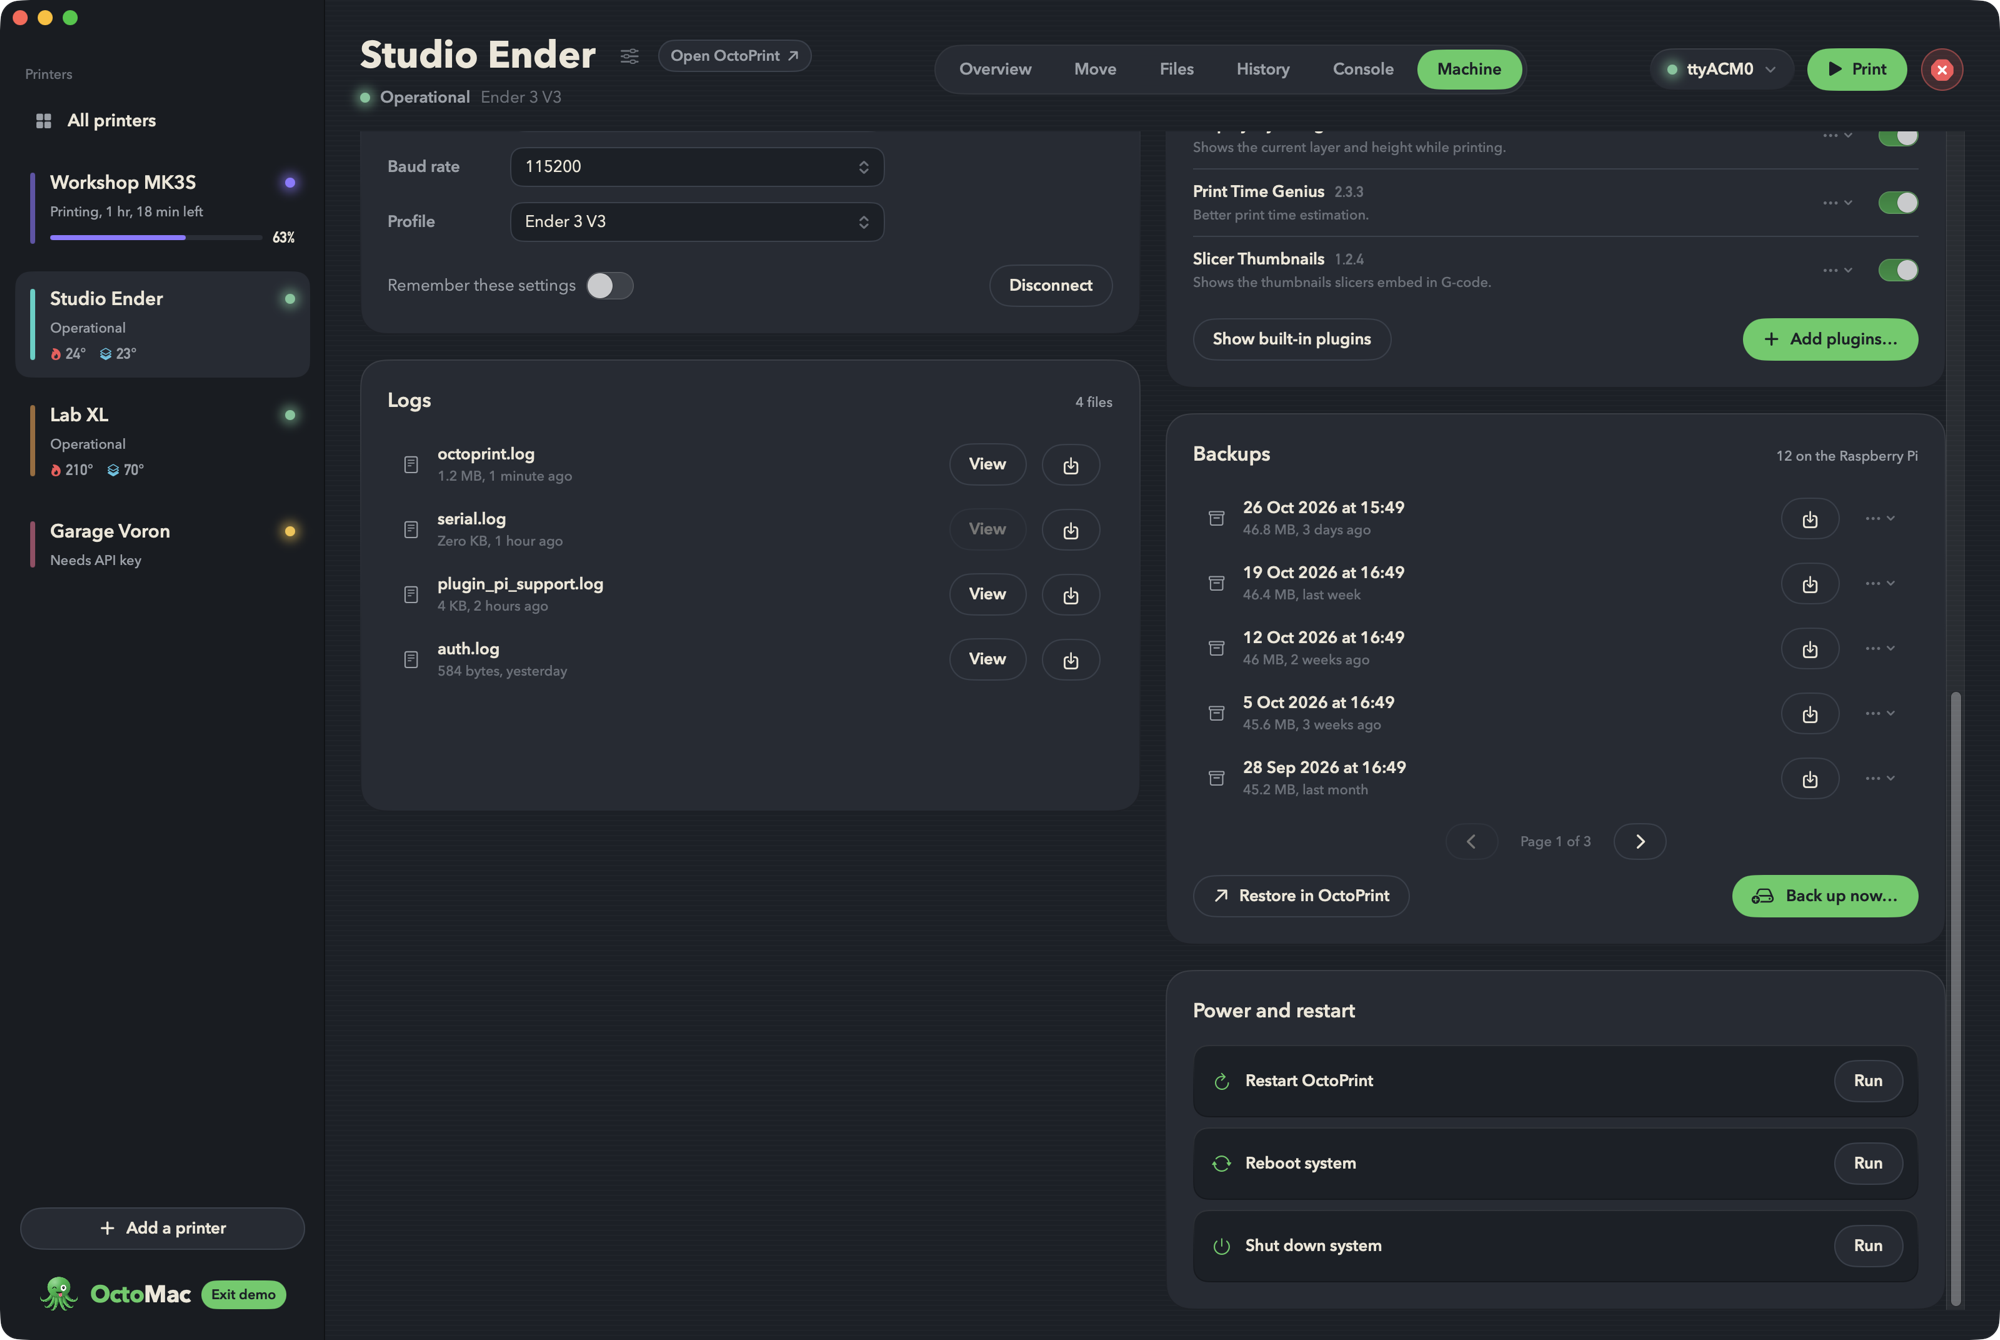
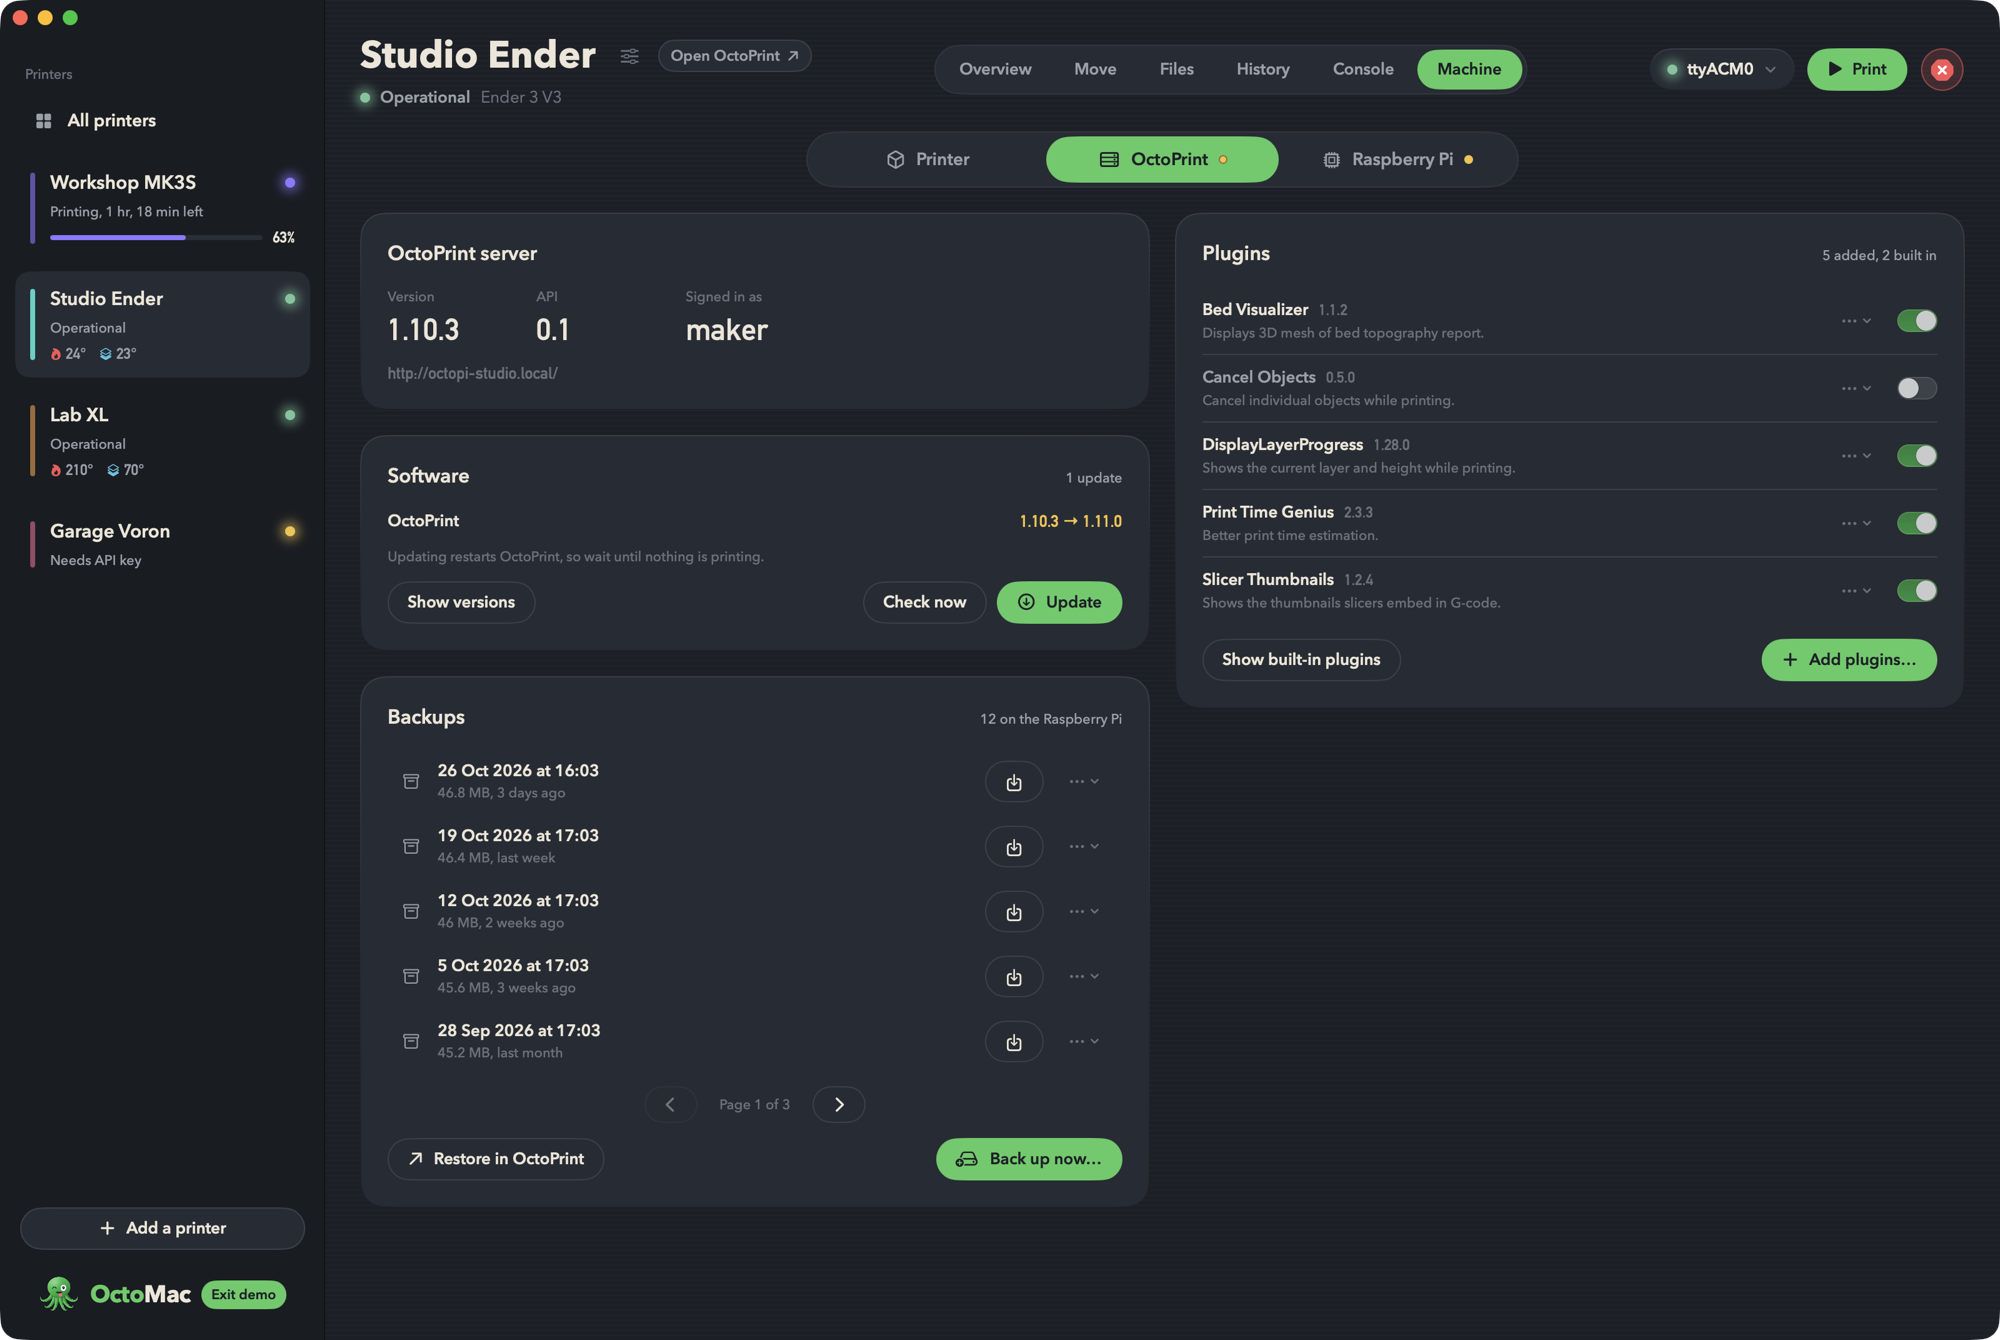
Website from OctoMac 663ca36

diff --git a/index.html b/index.html
@@ -392,10 +392,10 @@
     <article class="panel feature wide">
       <div>
         <div class="panel-head"><h3>The Machine tab</h3></div>
-        <p>Your printer's firmware, the Raspberry Pi's power and temperature health, and a 3D bed level map you can measure from OctoMac. Compare today's bed with an earlier measurement to see exactly what's moved.</p>
+        <p>Three tidy parts: the printer, OctoPrint and the Raspberry Pi, each with a dot when something needs you. Your printer's firmware, the Raspberry Pi's power and temperature health, and a 3D bed level map you can measure from OctoMac. Compare today's bed with an earlier measurement to see exactly what's moved.</p>
         <p>Install OctoPrint and plugin updates with one click, add plugins from OctoPrint's official list, switch them on or off, back up OctoPrint to your Mac, and read or save OctoPrint's logs. If a printer won't connect, OctoMac tells you why in plain words.</p>
       </div>
-      <div class="shot"><img src="screenshots/machine.png" width="2000" height="1340" loading="lazy" alt="The Machine tab with the bed level map, Raspberry Pi health, software updates and plugins"></div>
+      <div class="shot"><img src="screenshots/machine.png" width="2000" height="1340" loading="lazy" alt="The Machine tab's Printer section, with the printer, its serial connection and the bed level map"></div>
     </article>
     <article class="panel feature wide">
       <div>
@@ -411,7 +411,7 @@
         <p>Back up OctoPrint before an update or a new plugin, with or without your G-code files and timelapses. Save a copy to your Mac, so a failed SD card is a quick fix rather than a long evening.</p>
         <p>Old backups can be deleted from the same list. Restoring is done on OctoPrint's own page, which asks for your password first.</p>
       </div>
-      <div class="shot"><img src="screenshots/backups.png" width="2000" height="1340" loading="lazy" alt="The Backups panel on the Machine tab, listing backups on the Raspberry Pi with buttons to save them"></div>
+      <div class="shot"><img src="screenshots/backups.png" width="2000" height="1340" loading="lazy" alt="The Machine tab's OctoPrint section, with software updates, plugins and backups"></div>
     </article>
   </div>
 
